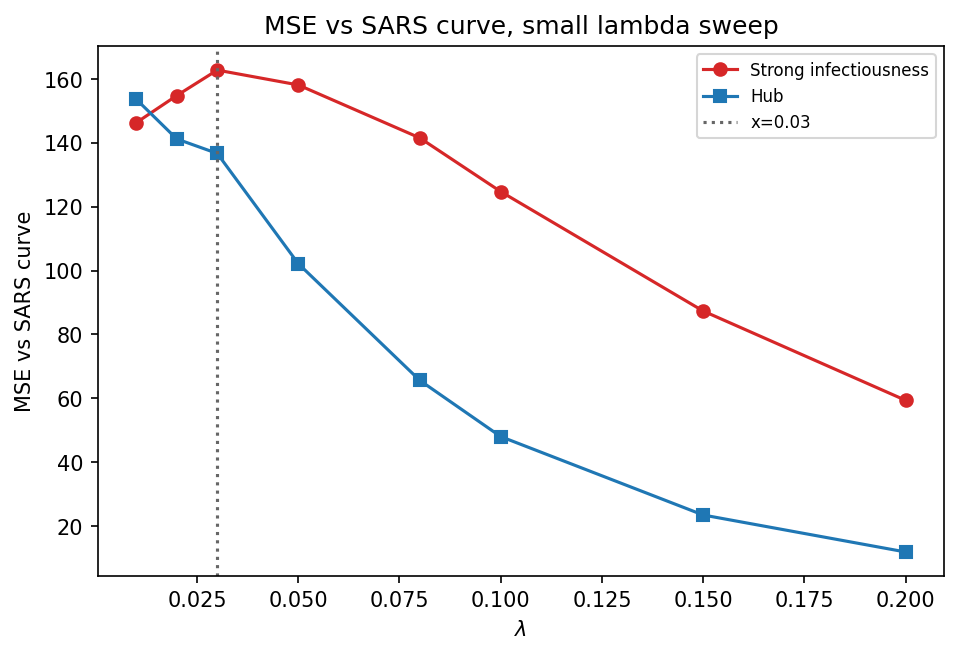
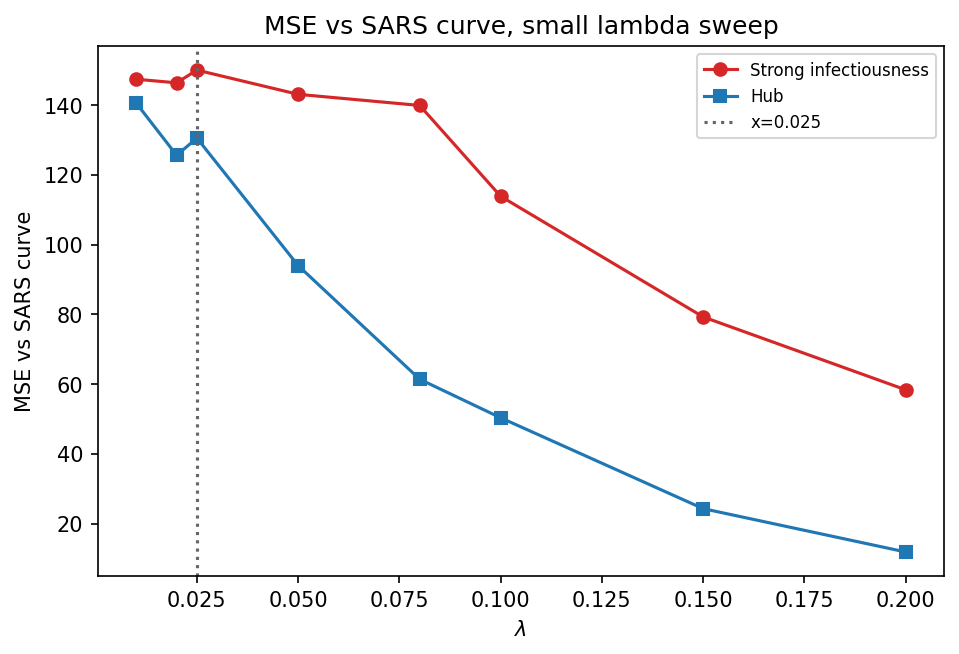
ggxd

diff --git a/scripts/10_sensitivity_lambda.py b/scripts/10_sensitivity_lambda.py
@@ -1,7 +1,7 @@
 """Sensitivity analysis: small superspreader fraction lambda (AGENTS.md S6.4).
 
-The paper only explores lambda >= 0.2, but real SARS Singapore had ~3.2%
-documented superspreaders. This sweeps lambda down to 0.01 at the baseline
+The paper only explores lambda >= 0.2, but real SARS Singapore had ~2.5%
+documented superspreaders (5 of 201 probable cases). This sweeps lambda down to 0.01 at the baseline
 density/gamma and finds the minimum lambda at which the hub model fits the
 SARS curve better than the strong model.
 
@@ -22,10 +22,10 @@ from spreader.analysis import aggregate_metrics, mean_epidemic_curve, mse_vs_sar
 from spreader import visualize as V
 
 MODELS = ["strong", "hub"]
-LAMBDAS = [0.01, 0.02, 0.03, 0.05, 0.08, 0.10, 0.15, 0.20]
+LAMBDAS = [0.01, 0.02, 0.025, 0.05, 0.08, 0.10, 0.15, 0.20]
 BASELINE_DENSITY = 15.0
 BASELINE_GAMMA = 1.0
-REALISTIC_LAMBDA = 0.03
+REALISTIC_LAMBDA = 0.025
 
 RAW_COLS = ["model", "lambda", "gamma", "rho_pi_r0sq", "N",
             "peak_time_mean", "peak_time_std",
@@ -111,8 +111,8 @@ def main():
             break
     print(f"\nMinimum lambda threshold (hub MSE < strong MSE): {min_lambda}")
 
-    # S_hat(MSE, lambda) for hub near the realistic SARS estimate (0.03),
-    # using the adjacent grid points (0.02 -> 0.05) since 0.03 isn't itself
+    # S_hat(MSE, lambda) for hub near the realistic SARS estimate (0.025),
+    # using the adjacent grid points (0.02 -> 0.05) since 0.025 isn't itself
     # flanked by +-10% grid points.
     if REALISTIC_LAMBDA in LAMBDAS:
         i = LAMBDAS.index(REALISTIC_LAMBDA)

diff --git a/scripts/09_sensitivity_alpha.py b/scripts/09_sensitivity_alpha.py
@@ -13,16 +13,19 @@ import argparse
 import csv
 
 import _bootstrap as B
+import numpy as np
 
 from spreader.models import density_to_N
 from spreader.runner import run_batch
 from spreader.analysis import aggregate_metrics, mean_epidemic_curve, mse_vs_sars
+from spreader import visualize as V
 
 MODELS = ["strong", "hub"]
 LAMBDAS = [0.2, 0.4]
 ALPHAS = [1, 2, 3]
 BASELINE_DENSITY = 15.0
 BASELINE_GAMMA = 1.0
+MSE_LAMBDA = 0.2
 
 RAW_COLS = ["model", "lambda", "alpha", "gamma", "rho_pi_r0sq",
             "peak_time_mean", "peak_time_std",
@@ -78,7 +81,15 @@ def main():
             f"alpha={a}: hub={mse_by[('hub', lam)][a]:.1f} "
             f"strong={mse_by[('strong', lam)][a]:.1f}" for a in ALPHAS)
         print(f"  lambda={lam}: robust={robust}  ({detail})")
-    print("Done.")
+
+    alpha_arr = np.array(ALPHAS, dtype=float)
+    mse_by_model = {m: np.array([mse_by[(m, MSE_LAMBDA)][a] for a in ALPHAS]) for m in MODELS}
+    V.plot_mse_curve({m: alpha_arr for m in MODELS}, mse_by_model,
+                     xlabel=r"$\alpha$",
+                     title=f"MSE vs SARS curve, alpha sweep (lambda={MSE_LAMBDA})",
+                     vline=2,
+                     savepath=B.report_fig("fig_s5_mse_vs_alpha.png"))
+    print("Done. See report/figures/fig_s5_mse_vs_alpha.png")
 
 
 if __name__ == "__main__":

diff --git a/scripts/11_sensitivity_summary.py b/scripts/11_sensitivity_summary.py
@@ -147,7 +147,7 @@ def main():
     for r in lam_raw:
         r["__param__"] = r["lambda"]
     lambdas_sorted = sorted({r["lambda"] for r in lam_raw})
-    i = lambdas_sorted.index(0.03) if 0.03 in lambdas_sorted else 2
+    i = lambdas_sorted.index(0.025) if 0.025 in lambdas_sorted else 2
     lo, hi = lambdas_sorted[max(i - 1, 0)], lambdas_sorted[min(i + 1, len(lambdas_sorted) - 1)]
     group_keys = ["model"]
     s_pt = _avg_abs_shat(lam_raw, "peak_time_mean", lo, hi, group_keys)
@@ -159,10 +159,10 @@ def main():
             min_lambda = lam
             break
     summary_rows.append({"experiment": "lambda_sweep", "parameter": "lambda",
-                         "baseline_value": 0.03, "output_metric": "all",
+                         "baseline_value": 0.025, "output_metric": "all",
                          "S_hat_peak_time": s_pt, "S_hat_peak_magnitude": s_pm,
                          "S_hat_extinction_time": float("nan"),
-                         "conclusion_robust": min_lambda == min_lambda and min_lambda <= 0.03})
+                         "conclusion_robust": min_lambda == min_lambda and min_lambda <= 0.025})
     boundary_rows.append({
         "parameter": "lambda", "boundary_value": min_lambda,
         "boundary_type": "minimum lambda for hub advantage",

diff --git a/src/spreader/visualize.py b/src/spreader/visualize.py
@@ -304,7 +304,7 @@ def plot_mse_curve(x_by_model, mse_by_model, xlabel, title, baseline=None,
 
     ``x_by_model``/``mse_by_model`` : {model: array}. ``baseline`` draws a
     horizontal reference line (e.g. the strong model's fixed MSE in the rn
-    sweep). ``vline`` marks a parameter value of interest (e.g. lambda=0.03).
+    sweep). ``vline`` marks a parameter value of interest (e.g. lambda=0.025).
     ``crossing`` marks a detected crossover x-value.
     """
     fig, ax = plt.subplots(figsize=(6.5, 4.5))
